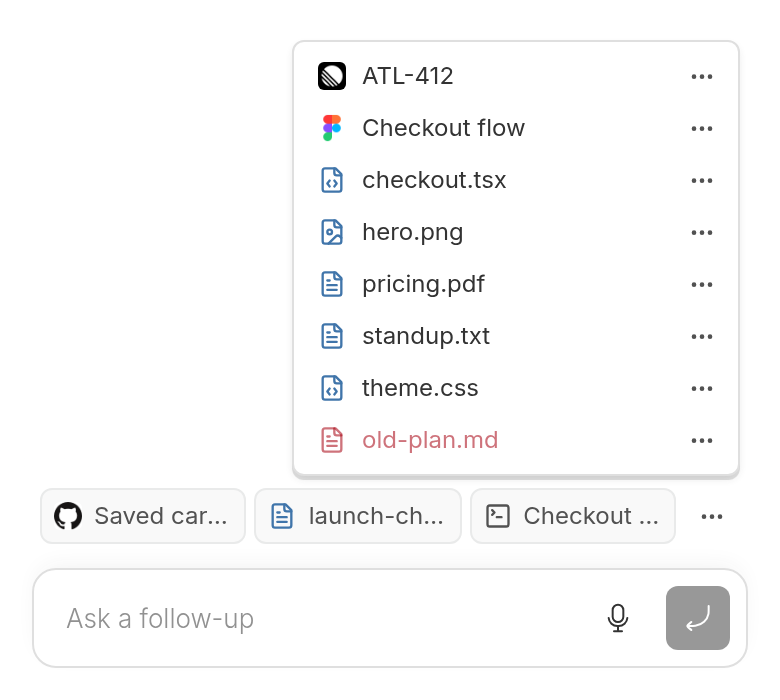
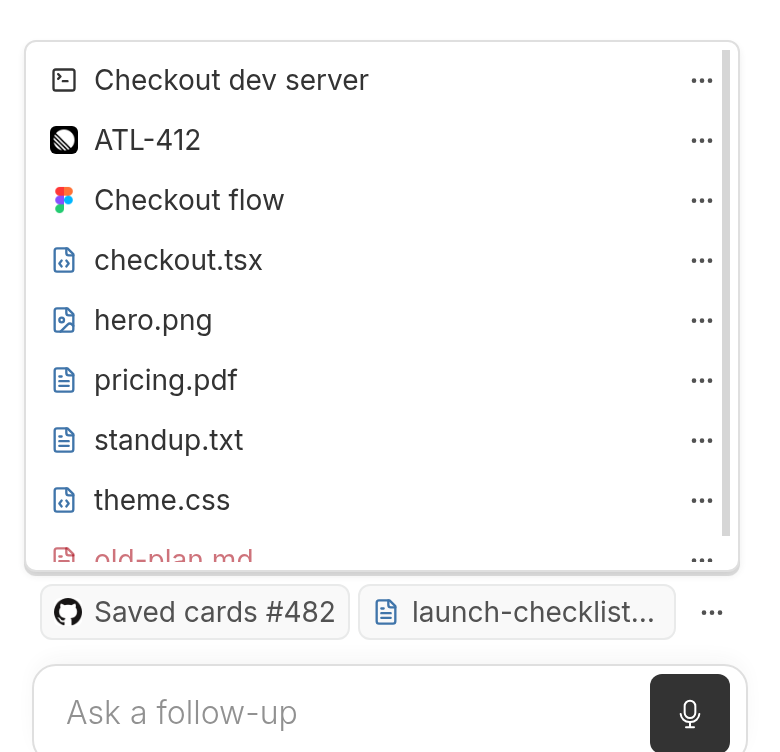
Pinned Files & Links: measure a PR's state slot only when it can show; new phone catalog screenshot
A GitHub PR that GitHub has no state for showed one icon but was measured
with two, which on phones left a gap and could push the next pin into ⋯.
The catalog's phone screenshot now shows whole labels with the full-width
⋯ list.

diff --git a/plugins/file-pins/app.tsx b/plugins/file-pins/app.tsx
@@ -15,8 +15,7 @@ import { layoutPins, pinFile, PIN_MIN_WIDTH_CLASS, unpinFile, useMeasurePins, ty
 import { previewTarget } from "./open-target.js";
 import { pinTooltip } from "./pin-tooltip.js";
 import { ReferenceIcon } from "./reference-icon.js";
-import { githubPullRequest } from "./pr-state.js";
-import { prStateLabel, UrlPinIcon, usePrStateAnswers } from "./url-pin-icon.js";
+import { prStateLabel, showsPrState, UrlPinIcon, usePrStateAnswers } from "./url-pin-icon.js";
 import { cn } from "./lib/utils.js";
 
 const linkClass = `group inline-flex h-7 min-w-0 items-center gap-1.5 rounded px-1.5 text-xs text-muted-foreground hover:text-foreground focus-visible:outline-none focus-visible:ring-2 focus-visible:ring-ring`;
@@ -264,7 +263,7 @@ function PinStrip({ threadId }: { threadId: string }) {
     {/* Mirrors the strip row with every pin at its natural width, plus ⋯ and the minimum pin, to measure what fits. */}
     <div ref={measureRow} aria-hidden="true" className="pointer-events-none invisible absolute inset-x-0 top-0 flex h-0 items-center gap-1 overflow-hidden px-1">
       {pins.map((pin) => <span key={pin.id} data-pin-id={pin.id} className={cn(pinClass, "shrink-0", !isUrlPin(pin) && pin.status === "missing" && "pr-4")}>
-        {isUrlPin(pin) && githubPullRequest(pin.url) ? <span className="flex shrink-0 gap-0.5"><span className="size-3.5" /><span className="size-3.5" /></span> : <span className="size-3.5 shrink-0" />}
+        {isUrlPin(pin) && showsPrState(pin.url) ? <span className="flex shrink-0 gap-0.5"><span className="size-3.5" /><span className="size-3.5" /></span> : <span className="size-3.5 shrink-0" />}
         <span className="truncate">{pin.name}</span>
       </span>)}
       <span data-measure="more" className={moreClass}><Icon name="MoreHorizontal" className="size-4" /></span>

diff --git a/plugins/file-pins/url-pin-icon.tsx b/plugins/file-pins/url-pin-icon.tsx
@@ -30,6 +30,12 @@ export function usePrStateAnswers(): number {
   return useSyncExternalStore((listener) => { listeners.add(listener); return () => listeners.delete(listener); }, () => answers);
 }
 
+/** True for a GitHub PR pin that shows, or may still show, a state beside its icon; false once GitHub has none to give. */
+export function showsPrState(url: string): boolean {
+  const pr = githubPullRequest(url);
+  return pr !== null && answered.get(prKey(pr)) !== null;
+}
+
 /** "merged pull request" for a pinned PR whose state is known, else "", for screen-reader labels. */
 export function prStateLabel(url: string): string {
   const pr = githubPullRequest(url);

diff --git a/README.md b/README.md
@@ -302,7 +302,7 @@ Keep a thread's key files and links one click away in a strip above the composer
 
 ![The Pin pill in the composer, followed by the files and link to pin](plugins/file-pins/docs/pin-files-pill.png)
 
-![Pins truncated to fit a phone, with the rest in the ⋯ list](plugins/file-pins/docs/phone-more-list.png)
+![Pins with whole labels on a phone, the last one shortened to fill the row, and the rest in the full-width ⋯ list](plugins/file-pins/docs/phone-more-list.png)
 
 [Source](plugins/file-pins) · [README](plugins/file-pins/README.md)
 
